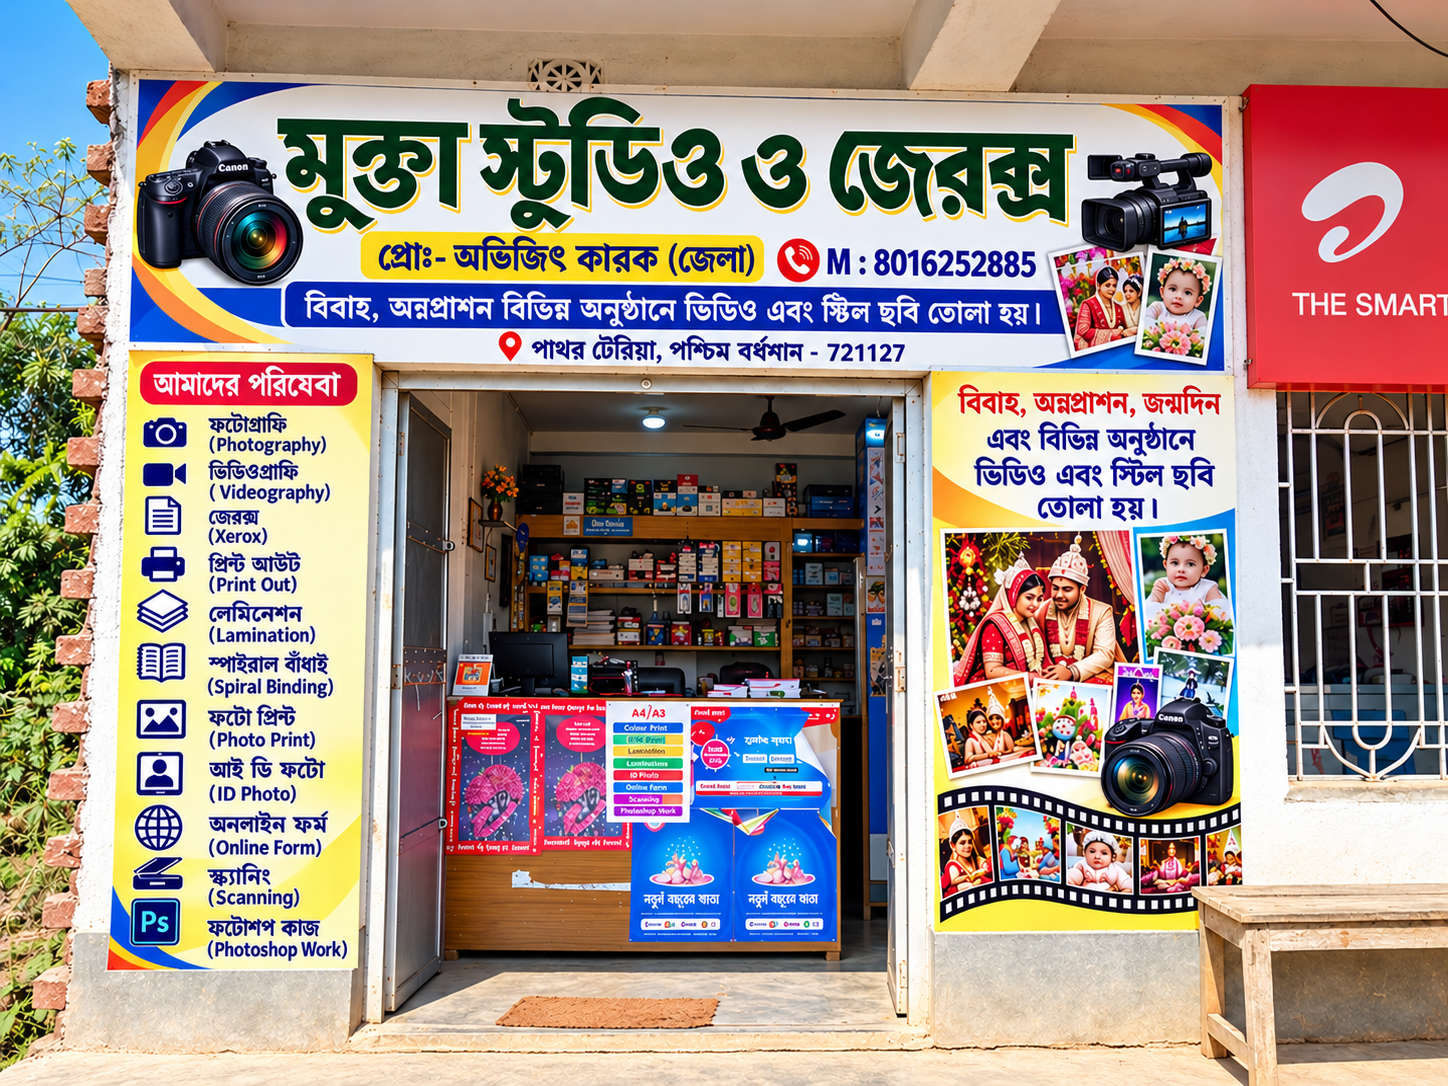
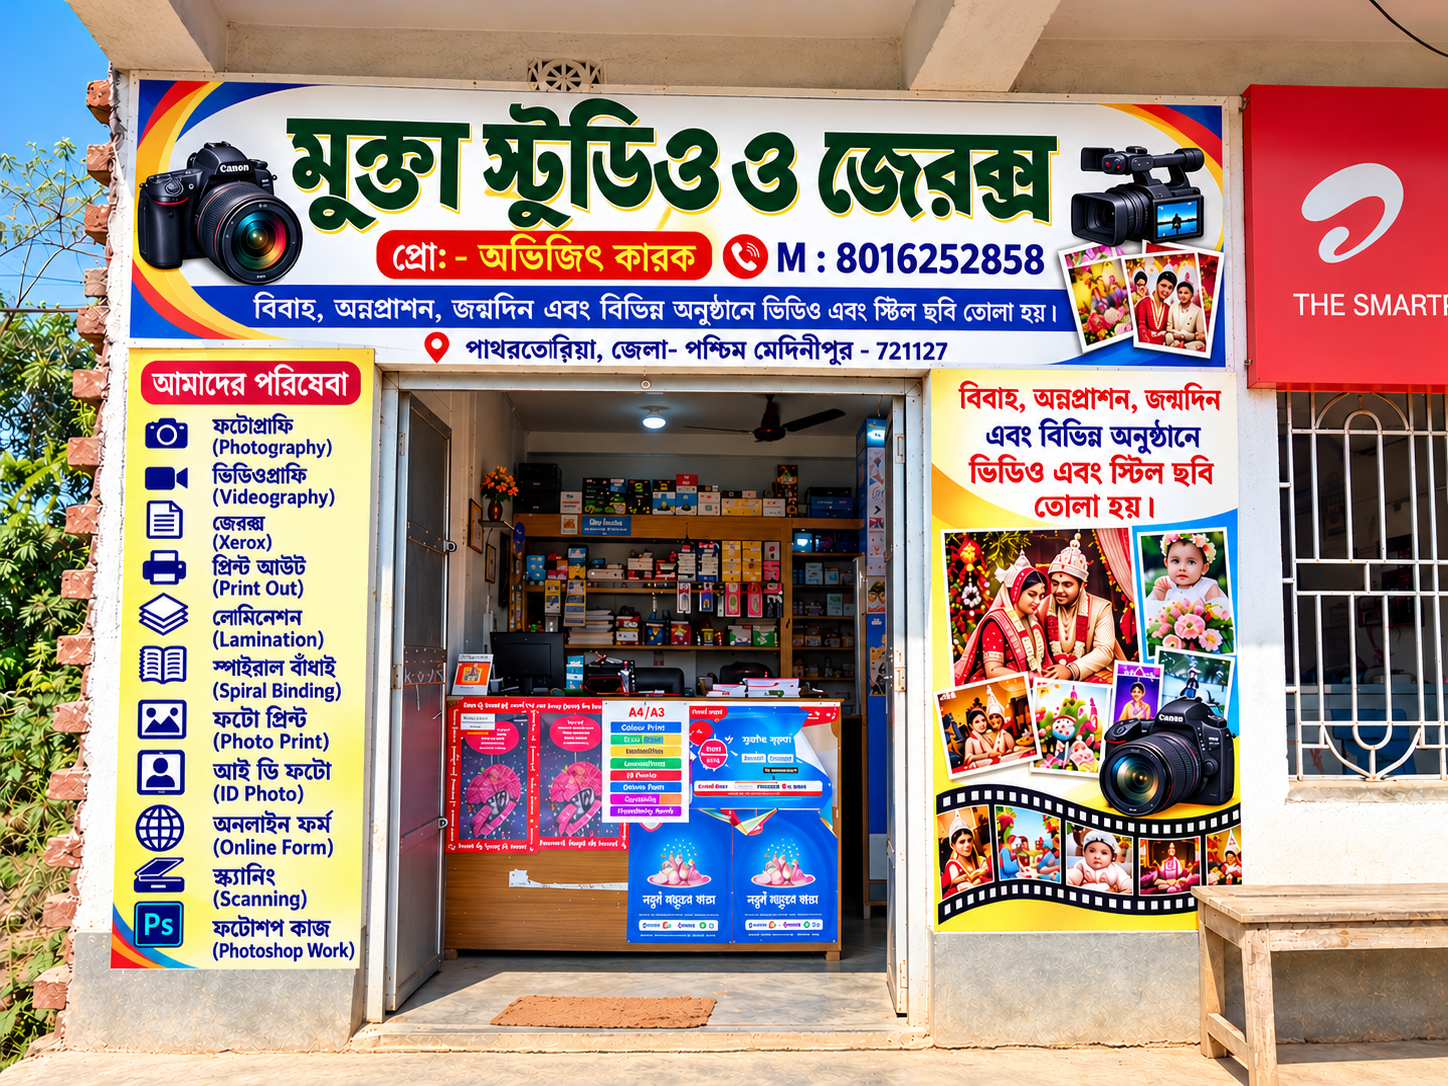
Picture update

diff --git a/index.html b/index.html
@@ -57,7 +57,7 @@
                     </div>
                 </div>
                 <div class="hero-visual reveal">
-                    <div class="hero-image-frame"><img src="assets/shop-banner-2.png"
+                    <div class="hero-image-frame"><img src="assets/shop-banner-1.png"
                             alt="Mukta Studio and Xerox storefront banner"></div>
                     <div class="floating-card"><span class="camera-icon">📷</span>
                         <div><b data-i18n="floatingTitle">Made to Remember</b><small data-i18n="floatingText">Love in
